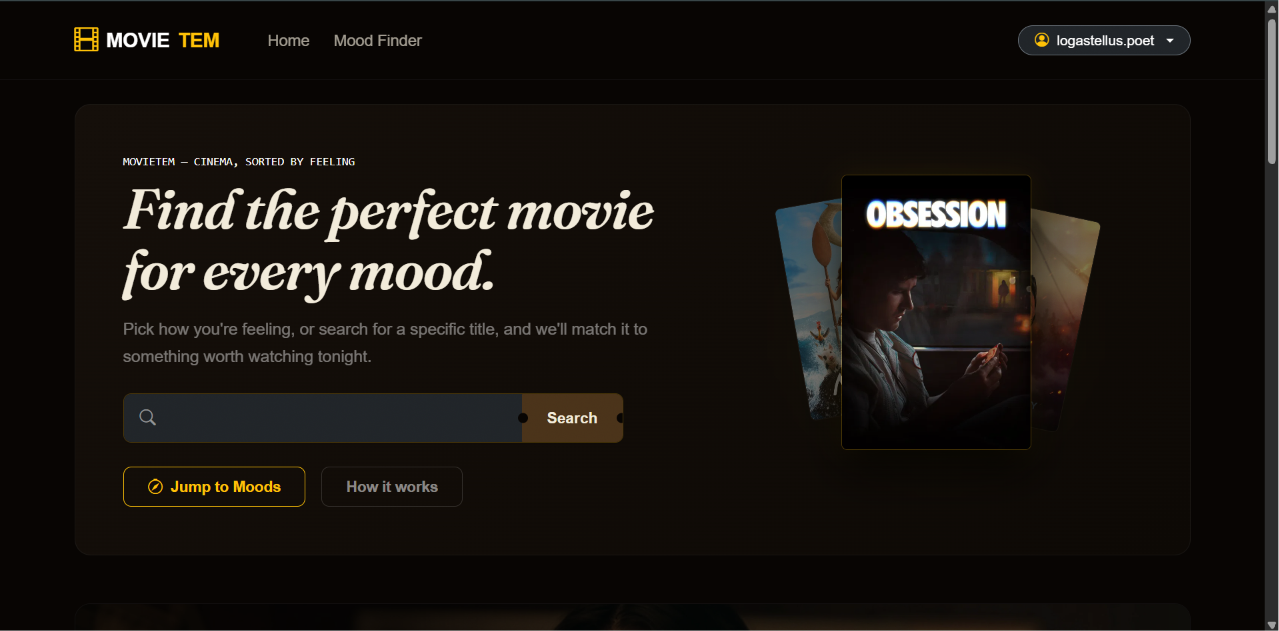
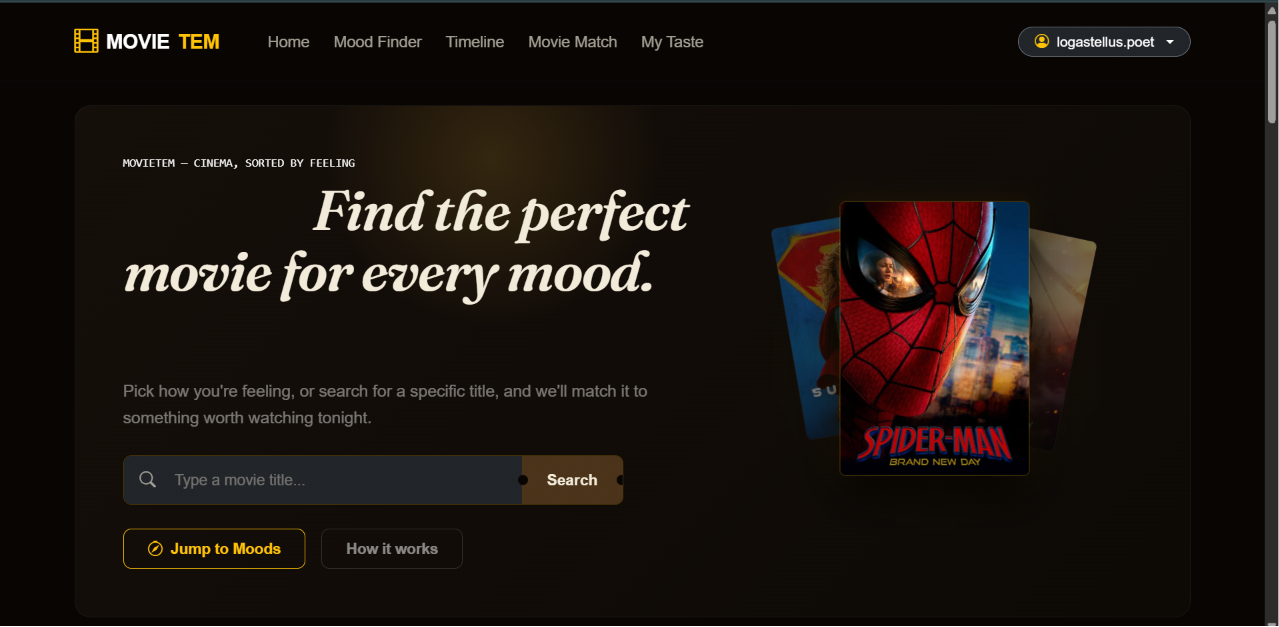
readme.2.0

diff --git a/README.md b/README.md
@@ -2,24 +2,64 @@
 
 **Cinema, sorted by feeling.**
 
-MovieTem is a mood-based movie discovery platform. Instead of scrolling through endless grids of titles, pick how you feel — happy, mind-bending, chill, nostalgic — and get matched with something worth watching tonight. Rate what you watch, and MovieTem learns your taste to recommend more of it.
+MovieTem is a mood-based movie discovery platform. Instead of scrolling through endless grids of titles, pick how you feel — happy, mind-bending, chill, nostalgic — and get matched with something worth watching tonight. Rate what you watch, and MovieTem learns your taste to recommend more of it, visualizes that taste back at you, and even helps two people agree on something to watch together.
 
   <img src="screenshots/homepage.png" alt="Movietem  Homepage" width="800">
   <img src="screenshots/trendingtoday.png" alt="Movietem  trendingtoday" width="800">
-  <img src="screenshots/mood finder.png" alt="Movietem mood finder" width="800">
   <img src="screenshots/picked for you .png" alt="Movietem  picked for you" width="800">
+  <img src="screenshots/compare.png" alt="Movietem  compare" width="800">
+  <img src="screenshots/moodfinder.png" alt="Movietem  moodfinder" width="800">
+  <img src="screenshots/moviematch.png" alt="Movietem moviematch" width="800">
+  <img src="screenshots/mytast.png" alt="Movietem  mytast" width="800">
+  <img src="screenshots/timeline.png" alt="Movietem  timeline" width="800">
+  <img src="screenshots/watchlist.png" alt="Movietem watchlist " width="800">
   <img src="screenshots/how to use.png" alt="Movietem  how to use" width="800">
 
 ## ✨ Features
 
-- **Mood-based discovery** — twelve curated moods (Happy, Horror Night, Sci-Fi, Nostalgic, and more) each mapped to a genre profile, pulling live results from TMDB.
-- **Personalized recommendations ("Picked for You")** — the standout feature. MovieTem analyzes a user's highest-rated movies, computes a weighted genre affinity score, and surfaces titles matching their actual taste — excluding anything already rated or watchlisted. Genre data is cached at rating time so recommendations load fast without hammering the TMDB API.
+### Discovery
+- **Mood-based discovery** — thirteen curated moods (Happy, Horror Night, Sci-Fi, Nostalgic, Hidden Gems, and more) each mapped to a genre profile or a dedicated discovery query, pulling live results from TMDB.
+- **Hidden Gems** — a mood unlike the others: instead of genre-matching, it surfaces highly-rated films (7.5+) that stayed under 20,000 votes, so it skips anything mainstream and turns up movies TMDB's own trending lists never would.
+- **Personalized recommendations ("Picked for You")** — MovieTem analyzes a user's highest-rated movies, computes a weighted genre affinity score, and surfaces titles matching their actual taste — excluding anything already rated or watchlisted. Genre data is cached at rating time so recommendations load fast without hammering the TMDB API.
 - **Live search with autocomplete** — debounced, real-time title suggestions as you type.
+- **Trending carousel** — auto-refreshing showcase of what's popular today, with a slow Ken Burns zoom on the active slide.
+
+### Personal collection
 - **Watchlist** — one-click bookmarking, persisted per user, with poster/rating/year data stored locally so the watchlist page never needs to re-query TMDB.
+- **Mark as Watched** — a second toggle on every watchlist card separates "want to watch" from "already seen," with filter tabs (All / To Watch / Watched) and live counts.
 - **Star ratings & reviews** — rate any movie 1–5 stars with an optional written review; reopening a movie shows your existing rating pre-filled.
-- **Movie detail modal** — synopsis, runtime, trailer link, and regional streaming availability (powered by TMDB's watch-provider data).
-- **Trending carousel** — auto-refreshing showcase of what's popular today.
-- **Authentication** — registration, login, and account settings, with hashed passwords and CSRF-protected forms throughout.
+- **Movie detail modal** — synopsis, runtime, trailer link, and regional streaming availability. Provider badges (Netflix, Prime Video, Hotstar, etc.) are clickable and route to that *specific provider's own* search page for the title — not a generic aggregator link.
+
+### Comparing & exploring
+- **Compare Movies** — pick any two movies from a floating selection tray and see them head-to-head: rating, vote count, popularity, runtime, budget, revenue, and any shared cast between them.
+- **Movie Timeline** — search any franchise (or pick from curated quick-starts like Harry Potter, Star Wars, or Jurassic Park) and see every film in it laid out as a visual, connected timeline in release order, pulling from TMDB's own curated Collections data.
+
+### Together / social
+- **Movie Match** — a two-person swipe game for settling "what do we watch tonight." Both players swipe the same shuffled deck (optionally filtered by genre and era), pass the device between turns, and MovieTem reveals every movie you both liked — with a confetti celebration if there's a match.
+
+### Your taste, visualized
+- **Mood Compass** — a personal radar chart built entirely from your own rating history: your top genres plotted as a shape, exact per-genre averages, a rating-habits breakdown (how many 1★s vs 5★s you actually give), and an honest "you're toughest on [genre]" callout alongside your dominant-genre "verdict" tag.
+
+### Authentication & account
+- Registration, login, and account settings, with hashed passwords and CSRF-protected forms throughout.
+
+---
+
+## 🎨 Design & Motion
+
+MovieTem's visual identity is a film print, not a dashboard — grain, sprocket holes, ticket-stub buttons, and marquee brass, built from actual cinema materials rather than a generic UI kit. On top of that sits a full motion system:
+
+- **Cinematic rotating background** — real TMDB top-rated backdrops crossfade behind several pages, blurred and dimmed so content stays fully readable.
+- **Letter-by-letter title reveals**, ambient glows, and a one-time projector-beam sweep on page load.
+- **Scroll reveal** ("focus pull") — content fades in from a blurred, out-of-frame state as it enters the viewport, alternating a subtle tilt so items don't march in uniformly.
+- **3D cursor-tilt** on mood cards, movie cards, and stat cards.
+- **The signature moment**: the movie detail modal opens like a projector iris rather than a generic fade.
+- **Toasts, confetti, and sparkle bursts** replace jarring `alert()` calls and mark genuine wins (added to watchlist, 5-star rating, Movie Match success).
+- A hidden easter egg on the logo (click it five times).
+
+All animation respects `prefers-reduced-motion` throughout.
+
+---
 
 ## 🛠 Tech Stack
 
@@ -42,32 +82,61 @@ No frameworks, no build step — clone it and run it on any standard PHP/MySQL s
 
 This means recommendations get more accurate the more a user rates, and never repeat data they've already engaged with.
 
+## 🧭 How Mood Compass Works
+
+1. Pulls every rating the user has made, along with the genre IDs cached at rating time (the same data the recommendation engine uses).
+2. Computes a weighted score per genre (sum of ratings for movies in that genre) and a genuine per-genre average (score ÷ number of movies in that genre).
+3. The top 7 genres by weighted score become the axes of a hand-built SVG radar chart — no charting library, just server-side trigonometry.
+4. A "toughest on" callout surfaces the genre with the user's lowest average rating (minimum 2 movies rated in it, so one harsh review can't unfairly brand a whole genre), and a rating-habits bar shows the full 1★–5★ distribution.
+
+Needs at least 3 rated movies with cached genre data before it renders; otherwise it shows an honest empty state.
+
+## 🤝 How Movie Match Works
+
+1. Optionally, both players agree on genre tags and/or an era before starting — this builds a filtered TMDB `discover` query instead of a generic popular-movies pool.
+2. A shuffled 16-movie deck is fetched once and shared between both players.
+3. Player 1 swipes (drag or tap ✕/❤); their likes are tracked in memory only.
+4. A "pass the device" screen hands off to Player 2, who swipes the identical deck without seeing Player 1's picks.
+5. Any movie both players liked is revealed as a match. Zero overlap gets an honest "wildly different taste" message with a one-tap reshuffle.
+
 ## 📁 Project Structure
 
 ```
 movietem/
-├── api/                        # JSON endpoints consumed by app.js
+├── api/                          # JSON endpoints consumed by app.js
+│   ├── get_background_movies.php # Backdrops for the cinematic rotating background
+│   ├── get_hidden_gems.php       # Highly-rated, low-vote-count discovery
+│   ├── get_match_deck.php        # Shuffled deck for Movie Match (genre/era aware)
 │   ├── get_movie_details.php
 │   ├── get_movies_by_mood.php
 │   ├── get_recommendations.php
 │   ├── get_user_rating.php
 │   ├── save_rating.php
+│   ├── search_collections.php    # Franchise/collection search for Timeline
 │   ├── submit_review.php
+│   ├── toggle_watched.php        # Mark as Watched toggle
 │   └── toggle_watchlist.php
 ├── assets/
 │   ├── css/styles.css
+│   ├── images/                   # Favicon set (svg, multi-size png, apple-touch-icon)
 │   └── js/app.js
 ├── config/
-│   ├── database.example.php    # copy to database.php and fill in your credentials
-│   └── tmdb.example.php        # copy to tmdb.php and add your TMDB API key
+│   ├── database.example.php      # copy to database.php and fill in your credentials
+│   └── tmdb.example.php          # copy to tmdb.php and add your TMDB API key
 ├── includes/
 │   ├── header.php
 │   └── footer.php
+├── screenshots/                  # README preview images
+├── compare.php                   # Head-to-head movie comparison
+├── favicon.ico
 ├── index.php
 ├── login.php / register.php / logout.php
+├── match.php                     # Movie Match swipe game
 ├── profile.php
+├── taste.php                     # Mood Compass taste radar
+├── timeline.php                  # Franchise movie timeline
 ├── watchlist.php
-└── schema.sql                  # full database schema
+└── schema.sql                    # full database schema
 ```
 
 ## 🚀 Setup
@@ -95,24 +164,30 @@ movietem/
    ```bash
    mysql -u root -p movietem < schema.sql
    ```
+   Note: `genre_ids` (used by recommendations and Mood Compass) and `is_watched` (used by the watchlist toggle) should be present as columns on `movie_ratings` and `watchlist` respectively — check your live schema matches `schema.sql` before relying on those features, since the two can drift out of sync as the app evolves.
 
 4. **Serve the app** — point your local server (XAMPP/MAMP/`php -S`) at the project root and visit `index.php`.
 
-5. **Register an account**, rate a few movies 4★ or higher, and watch the "Picked for You" section populate on the homepage.
+5. **Register an account**, rate a few movies 4★ or higher, and watch the "Picked for You" section populate on the homepage — then check out **My Taste** in the nav once you've rated a handful more.
 
-## 🔒 Security Notes
+## 🔒 Security & Reliability Notes
 
 - All database queries use PDO prepared statements — no raw string interpolation.
-- Every state-changing endpoint (`toggle_watchlist.php`, `save_rating.php`, `submit_review.php`) validates a per-session CSRF token before acting.
+- Every state-changing endpoint validates a per-session CSRF token before acting.
 - Passwords are hashed with `password_hash()` / verified with `password_verify()` — never stored in plaintext.
 - Real credentials (`config/database.php`, `config/tmdb.php`) are gitignored; only placeholder `.example.php` templates are committed.
+- TMDB requests automatically retry (up to 3 attempts with backoff) on transient network failures, and force TLS 1.2/IPv4/HTTP1.1 to work around a common connection-reset issue on older PHP/cURL/OpenSSL combinations.
+- API endpoints surface the real underlying error (TMDB error message or cURL failure reason) instead of silently returning an empty result, so a genuine outage doesn't look identical to "nothing found."
 
 ## 🗺 Possible Next Steps
 
-- Content-rating filters on discovery/recommendation results
-- Pagination on search and mood results (currently capped at the first page)
-- Public shareable watchlist links
 - Password reset flow
+- TMDB response caching (reduce live calls, further insulate against connectivity hiccups)
+- Pagination / infinite scroll on mood and search results (currently capped at TMDB's first page)
+- Genre/rating filter chips on the main Mood Finder and search results (Movie Match already has this)
+- Public shareable watchlist links
+- Public review feed (see what everyone's saying about a movie, not just your own rating)
+- Content-rating filters on discovery/recommendation results
 
 ## 🙏 Attribution
 
